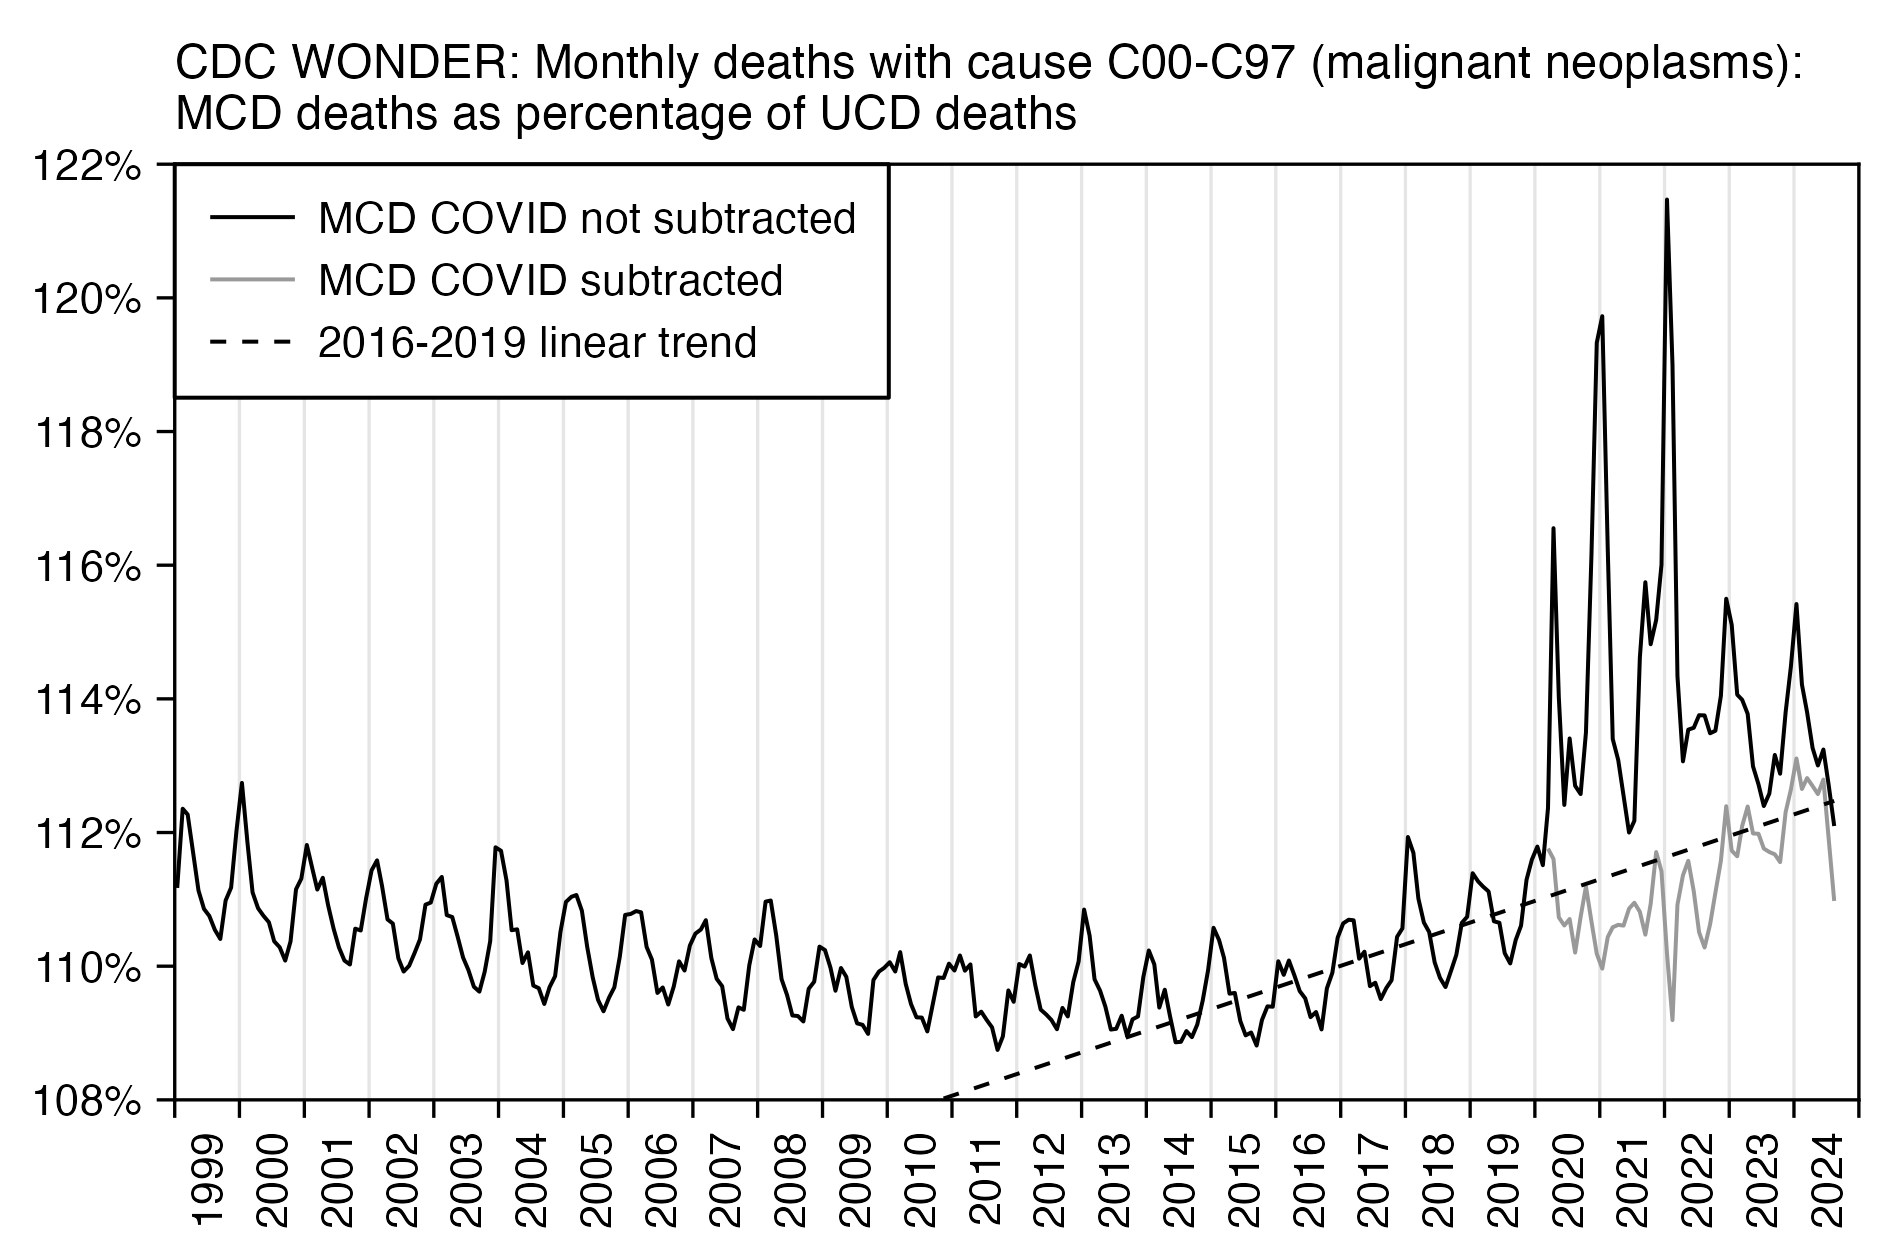
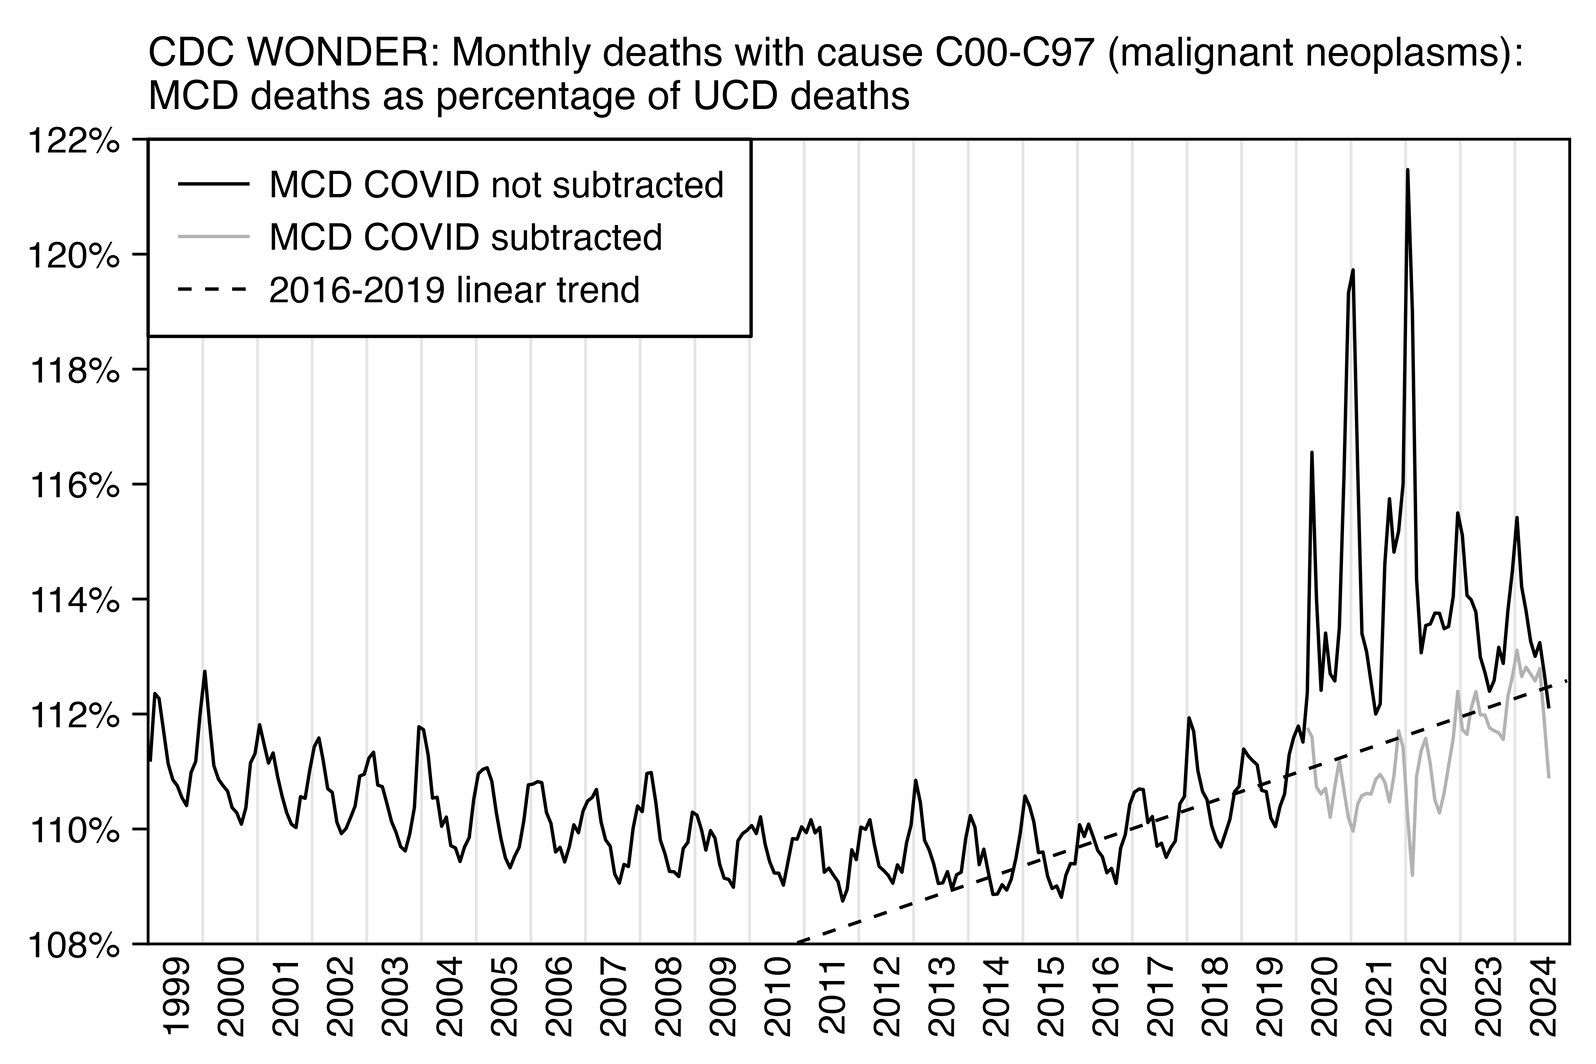
a

diff --git a/ethical.html b/ethical.html
@@ -263,7 +263,7 @@ theme(axis.text=element_text(size=6.5,color=&quot;black&quot;),
   plot.title=element_text(size=7.5))
 ggsave(&quot;1.png&quot;,width=4.6,height=4.5,dpi=450)</pre>
 </div>
-<p>Added later: Ethical Skeptic later explained to me was that the reason why his plot seemed to be missing approximately the first two months of data was that his plot showed a moving average, so the first two months of data were actually included in the moving average for the point that was plotted around the start of March 2018.</p>
+<p>Added later: Ethical Skeptic later explained to me was that the reason why his plot seemed to be missing approximately the first two months of data was that his plot showed a moving average, so the first weeks of data were actually included in the moving average for the point that was plotted around the start of March 2018. He wrote: <span class="quote">&quot;The initial months are smoothed into a 7-w moving average data line, so they are in there. I will add a tapered-moving average version of the the initial months into the future versions of the chart to allay that misconception.&quot;</span> [<a href="https://theethicalskeptic.substack.com/p/the-state-of-things-pandemic-week-706/comment/53336888">https://theethicalskeptic.substack.com/p/the-state-of-things-pandemic-week-706/comment/53336888</a>]</p>
 <h2>
 <a href=#Updated_plot_for_cardiac_deaths_in_ages_0_to_54_with_drug_deaths_included id=Updated_plot_for_cardiac_deaths_in_ages_0_to_54_with_drug_deaths_included>Updated plot for cardiac deaths in ages 0 to 54 with drug deaths included</a>
 </h2>
@@ -1640,10 +1640,10 @@ Show code
 t=fread(&quot;http://sars2.net/f/wondermalignant5year.csv&quot;)
 t=t[,.(dead=sum(dead)),.(month,cause)]
 
-and=fread(&quot;http://sars2.net/f/wondermalignantmcdandcovidmcd.csv&quot;)
+and=fread(&quot;http://sars2.net/f/wondermalignantmcdandcovidmcd.csv&quot;)[age==&quot;all&quot;]
 
 p=t[grep(&quot;Multiple&quot;,cause),.(x=month,y=dead,z=&quot;MCD COVID not subtracted&quot;)]
-p=rbind(p,merge(p,and[,.(x=month,and=dead)])[,.(x,y=y-and,z=&quot;MCD COVID subtracted&quot;)])
+p=rbind(p,merge(p,and[,.(x=date,and=dead)])[,.(x,y=y-and,z=&quot;MCD COVID subtracted&quot;)])
 p=merge(p,t[grep(&quot;Under&quot;,cause),.(x=month,under=dead)])
 p[,y:=y/under*100]
 
@@ -1653,31 +1653,32 @@ p[,x:=as.Date(paste0(x,&quot;-1&quot;))]
 xstart=as.Date(&quot;1999-1-1&quot;);xend=as.Date(&quot;2025-1-1&quot;)
 xbreak=seq(xstart,xend,&quot;6 month&quot;)
 xlab=c(rbind(&quot;&quot;,1999:2024),&quot;&quot;)
+ybreak=pretty(p$y);ystart=ybreak[1];yend=max(ybreak)
 
-cand=c(sapply(c(1,2,5),\(x)x*10^c(-10:10)))
-ymin=p[,min(y,na.rm=T)];ymax=p[,max(y,na.rm=T)]
-ystep=cand[which.min(abs(cand-(ymax-ymin)/7))]
-ystart=ystep*floor(ymin/ystep)
-yend=ystep*ceiling(ymax/ystep)
-ybreak=seq(ystart,yend,ystep)
+color=c(&quot;black&quot;,&quot;gray70&quot;,&quot;black&quot;)
 
-color=c(&quot;black&quot;,&quot;gray60&quot;)
+months=seq(xstart,xend,&quot;month&quot;)
+p=rbind(p[,.(x,y,z)],p[z==&quot;MCD COVID not subtracted&quot;&amp;year(x)%in%2016:2019,.(x=months,y=predict(lm(y~x),.(x=months)),z=&quot;2016-2019 linear trend&quot;)])
 
-ggplot(p,aes(x=x+14,y=y,color=z))+
+p[,z:=factor(z,unique(z))]
+
+ggplot(p,aes(x=x+14,y=y))+
 geom_vline(xintercept=seq(xstart,xend,&quot;year&quot;),color=&quot;gray90&quot;,linewidth=.25)+
 geom_hline(yintercept=c(ystart,yend),linewidth=.25,lineend=&quot;square&quot;)+
 geom_vline(xintercept=c(xstart,xend),linewidth=.25,lineend=&quot;square&quot;)+
-geom_line(linewidth=.3)+
+geom_line(aes(color=z,linetype=z),linewidth=.3)+
 labs(title=&quot;CDC WONDER: Monthly deaths with cause C00-C97 (malignant neoplasms): MCD deaths as percentage of UCD deaths&quot;|&gt;stringr::str_wrap(70),x=NULL,y=NULL)+
 scale_x_continuous(limits=c(xstart,xend),breaks=xbreak,labels=xlab)+
 scale_y_continuous(limits=c(ystart,yend),breaks=ybreak,labels=\(x)paste0(x,&quot;%&quot;))+
 scale_color_manual(values=color)+
+scale_linetype_manual(values=c(1,1,2))+
 coord_cartesian(clip=&quot;off&quot;,expand=F)+
 theme(axis.text=element_text(size=7,color=&quot;black&quot;),
   axis.text.x=element_text(angle=90,vjust=.5,hjust=1),
   axis.ticks.x=element_line(color=alpha(&quot;black&quot;,c(1,0))),
   axis.ticks=element_line(linewidth=.25,color=&quot;black&quot;),
-  axis.ticks.length=unit(.2,&quot;lines&quot;),
+  axis.ticks.length=unit(3,&quot;pt&quot;),
+  axis.ticks.length.x=unit(0,&quot;pt&quot;),
   axis.title=element_text(size=8),
   legend.background=element_blank(),
   legend.box.just=&quot;left&quot;,
